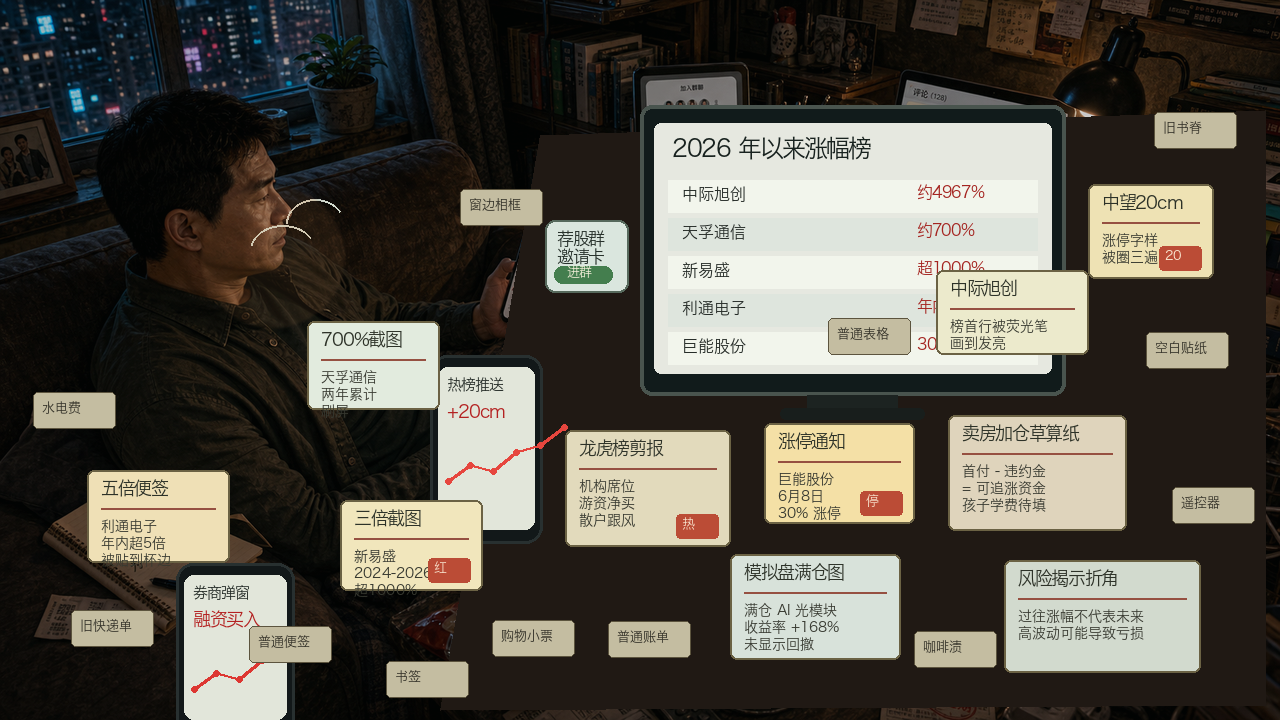
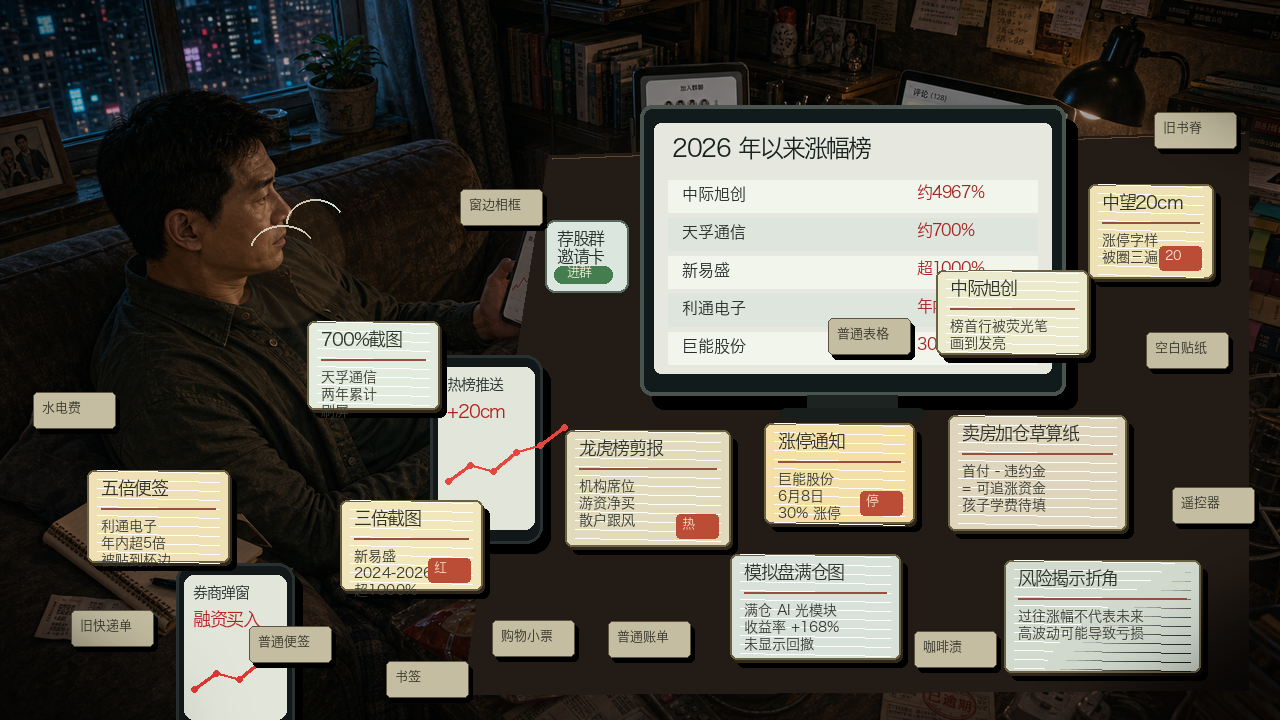
Soften stock heatlist art pass

diff --git a/tools/generate-stock-level-assets.py b/tools/generate-stock-level-assets.py
@@ -39,7 +39,11 @@ def kline(draw, x, y, points, color=(232, 76, 62), width=4):
 
 
 def paper(draw, x, y, w, h, title, body, fill=(226, 218, 188), angle_label=None):
+    draw_round(draw, (x + 7, y + 8, x + w + 7, y + h + 8), (0, 0, 0, 24), radius=7)
+    draw_round(draw, (x + 2, y + 3, x + w + 2, y + h + 3), (48, 38, 26, 18), radius=7)
     draw_round(draw, (x, y, x + w, y + h), fill, outline=(107, 98, 68), width=2, radius=7)
+    for offset in range(0, h, 9):
+        draw.line((x + 10, y + offset, x + w - 10, y + offset + 3), fill=(255, 255, 255, 5), width=1)
     draw_text(draw, (x + 14, y + 10), title, 18, fill=(45, 50, 40), index=1)
     draw.line((x + 14, y + 38, x + w - 14, y + 38), fill=(150, 80, 65), width=2)
     draw_text(draw, (x + 14, y + 48), body, 14, fill=(55, 57, 48))
@@ -49,6 +53,7 @@ def paper(draw, x, y, w, h, title, body, fill=(226, 218, 188), angle_label=None)
 
 
 def phone(draw, x, y, w, h, title, change, line_color=(230, 61, 54)):
+    draw_round(draw, (x + 8, y + 10, x + w + 8, y + h + 10), (0, 0, 0, 32), radius=17)
     draw_round(draw, (x, y, x + w, y + h), (18, 24, 25), outline=(40, 48, 48), width=3, radius=17)
     draw_round(draw, (x + 8, y + 12, x + w - 8, y + h - 14), (226, 230, 218), radius=10)
     draw_text(draw, (x + 17, y + 22), title, 15, fill=(35, 42, 38), index=1)
@@ -57,6 +62,7 @@ def phone(draw, x, y, w, h, title, change, line_color=(230, 61, 54)):
 
 
 def monitor(draw, x, y, w, h):
+    draw_round(draw, (x + 12, y + 14, x + w + 12, y + h + 14), (0, 0, 0, 40), radius=12)
     draw_round(draw, (x, y, x + w, y + h), (17, 27, 27), outline=(73, 84, 78), width=4, radius=12)
     draw_round(draw, (x + 14, y + 18, x + w - 14, y + h - 22), (230, 232, 224), radius=7)
     draw_text(draw, (x + 32, y + 32), "2026 年以来涨幅榜", 24, fill=(24, 34, 31), index=1)
@@ -84,8 +90,16 @@ def add_scene_objects(base):
     img = Image.alpha_composite(img, wash)
     draw = ImageDraw.Draw(img)
 
-    # Dark desk extension and stock-monitor cluster.
-    draw.polygon([(540, 135), (1265, 110), (1265, 705), (440, 710)], fill=(32, 25, 20, 185))
+    # Extend the existing table with soft shadow instead of a flat pasted panel.
+    desk_shadow = Image.new("RGBA", (W, H), (0, 0, 0, 0))
+    shadow_draw = ImageDraw.Draw(desk_shadow)
+    shadow_draw.polygon([(528, 130), (1268, 105), (1268, 708), (430, 710)], fill=(22, 17, 13, 92))
+    shadow_draw.ellipse((405, 390, 1258, 830), fill=(18, 13, 9, 70))
+    desk_shadow = desk_shadow.filter(ImageFilter.GaussianBlur(10))
+    img = Image.alpha_composite(img, desk_shadow)
+    draw = ImageDraw.Draw(img)
+    draw.polygon([(548, 155), (1248, 130), (1248, 690), (462, 695)], fill=(35, 27, 21, 46))
+    draw.line((552, 158, 1244, 132), fill=(94, 72, 49, 80), width=2)
     monitor(draw, 640, 105, 425, 290)
     phone(draw, 430, 355, 112, 188, "热榜推送", "+20cm", line_color=(230, 70, 62))
     phone(draw, 176, 563, 118, 170, "券商弹窗", "融资买入", line_color=(221, 55, 50))
@@ -114,13 +128,24 @@ def add_scene_objects(base):
         (608, 621, "普通账单"), (914, 631, "咖啡渍"), (1146, 332, "空白贴纸"), (1172, 487, "遥控器"),
         (386, 661, "书签"), (828, 318, "普通表格"), (460, 189, "窗边相框"), (1154, 112, "旧书脊"),
     ]:
+        draw_round(draw, (x + 4, y + 5, x + 86, y + 41), (0, 0, 0, 16), width=1, radius=5)
         draw_round(draw, (x, y, x + 82, y + 36), (196, 189, 161, 150), outline=(92, 84, 62), width=1, radius=5)
         draw_text(draw, (x + 9, y + 8), text, 13, fill=(50, 48, 39))
 
     # Cigarette smoke / fatigue marks near the protagonist.
     draw.arc((250, 225, 315, 275), 190, 330, fill=(210, 218, 206, 95), width=2)
     draw.arc((286, 199, 344, 248), 180, 330, fill=(210, 218, 206, 72), width=2)
-    return img
+    vignette = Image.new("RGBA", (W, H), (0, 0, 0, 0))
+    vignette_draw = ImageDraw.Draw(vignette)
+    vignette_draw.rectangle((0, 0, W, H), outline=(0, 0, 0, 0))
+    vignette_draw.ellipse((-160, -130, W + 160, H + 145), fill=(0, 0, 0, 0), outline=(0, 0, 0, 0))
+    edge = Image.new("L", (W, H), 0)
+    edge_draw = ImageDraw.Draw(edge)
+    edge_draw.rectangle((0, 0, W, H), fill=115)
+    edge_draw.ellipse((-120, -90, W + 120, H + 100), fill=0)
+    edge = edge.filter(ImageFilter.GaussianBlur(42))
+    vignette.putalpha(edge)
+    return Image.alpha_composite(img, vignette)
 
 
 def add_expression_state(img, progress):

diff --git a/TASK_STATE.md b/TASK_STATE.md
@@ -185,6 +185,7 @@ The second level is now wired as a playable Phaser flow and has been rebuilt wit
 - Eighth level progress: added playable `stock` / `暴涨榜深夜场` with 13 clues, increasing difficulty after the 12-clue mother-nest level. The level uses the user's stock涨幅榜 direction as temptation material while framing it as in-game追涨噪声, not financial advice.
 - Eighth level hint fix: raised the scene-scoped hint budget from 12 to 20 and added Playwright coverage that completes all 13 stock clues through hints, including the final clue.
 - Eighth level QA risk: built-in image generation failed with server errors during this pass, so the first stock artwork is a local redraw/composite based on the existing night-room raster. It is playable and tested, but still too card/text-heavy for final production art and should be replaced by a formal same-camera generated scene or targeted inpaint pass.
+- Eighth level local art repair: after user challenged the WIP stop point, the stock asset generator was revised to remove the hardest pasted panel feel, add softer desk shadows, paper texture, and scene wash, then all `stock-progress-0..13` rasters were regenerated. This improves the playable pass but still does not replace a formal full-scene image generation/inpaint pass.
 - Remaining QA risk: final user visual approval is still needed, but the runtime no longer relies on placeholder SVG/vector-generated rooftop assets.
 
 Second-level optimization plan:
@@ -264,3 +265,4 @@ Second-level optimization plan:
 - After recalibrating AI-launch h2/h3/h5/h6 on 2026-06-05, `npm test`, `npm run build`, and `npm run test:e2e` passed. The source overlay check now places the course checkout clue on the right tablet timer/payment card instead of the pen cup.
 - After adding social microexpression overlays and the semantic validation hook on 2026-06-08, `npm run semantic:check`, `npm test`, focused social Playwright, `npm run build`, and the full `npm run test:e2e` suite were rerun before commit.
 - After adding the eighth stock heatlist level on 2026-06-08, `npm test`, `npm run build`, and `npm run test:e2e` passed. Playwright verified all 13 stock clues can be revealed through the hint flow and captured `artifacts/playtest-stock-intro.png`, `artifacts/playtest-stock-mid-progress.png`, and `artifacts/playtest-stock-complete.png`.
+- After the stock local art repair on 2026-06-08, `npm test` and focused stock Playwright passed again.
